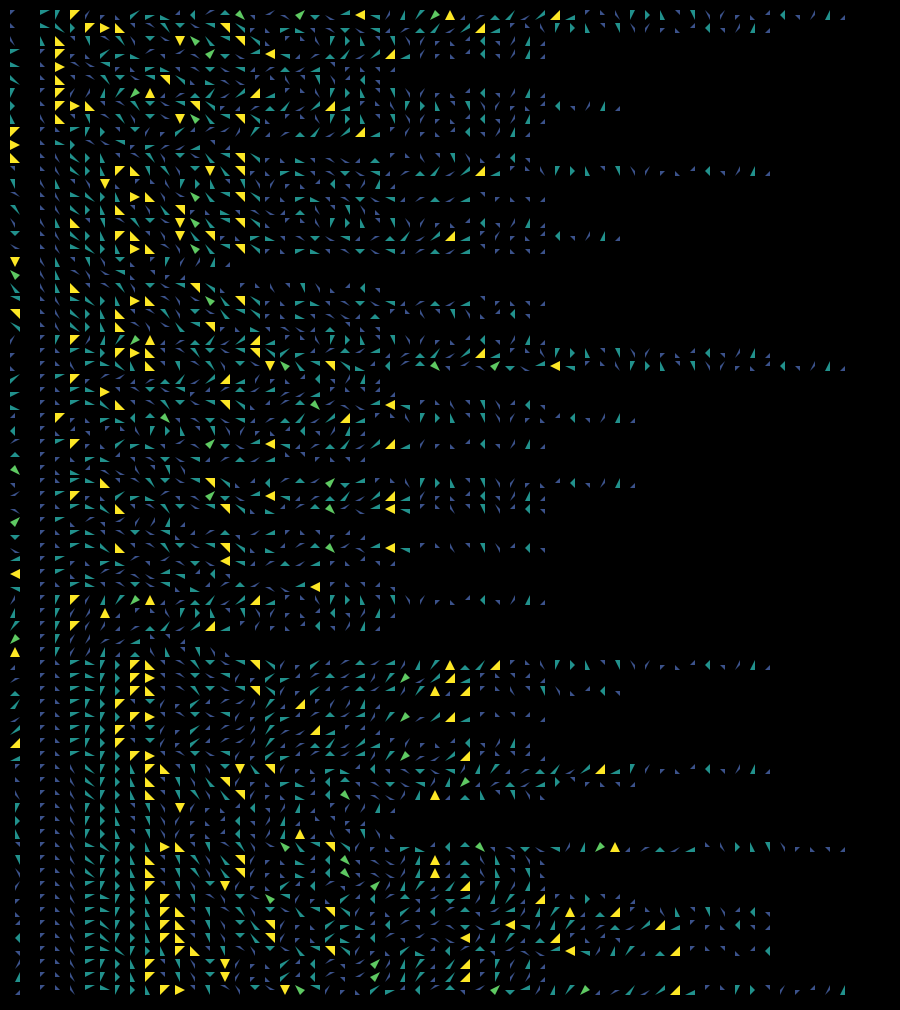
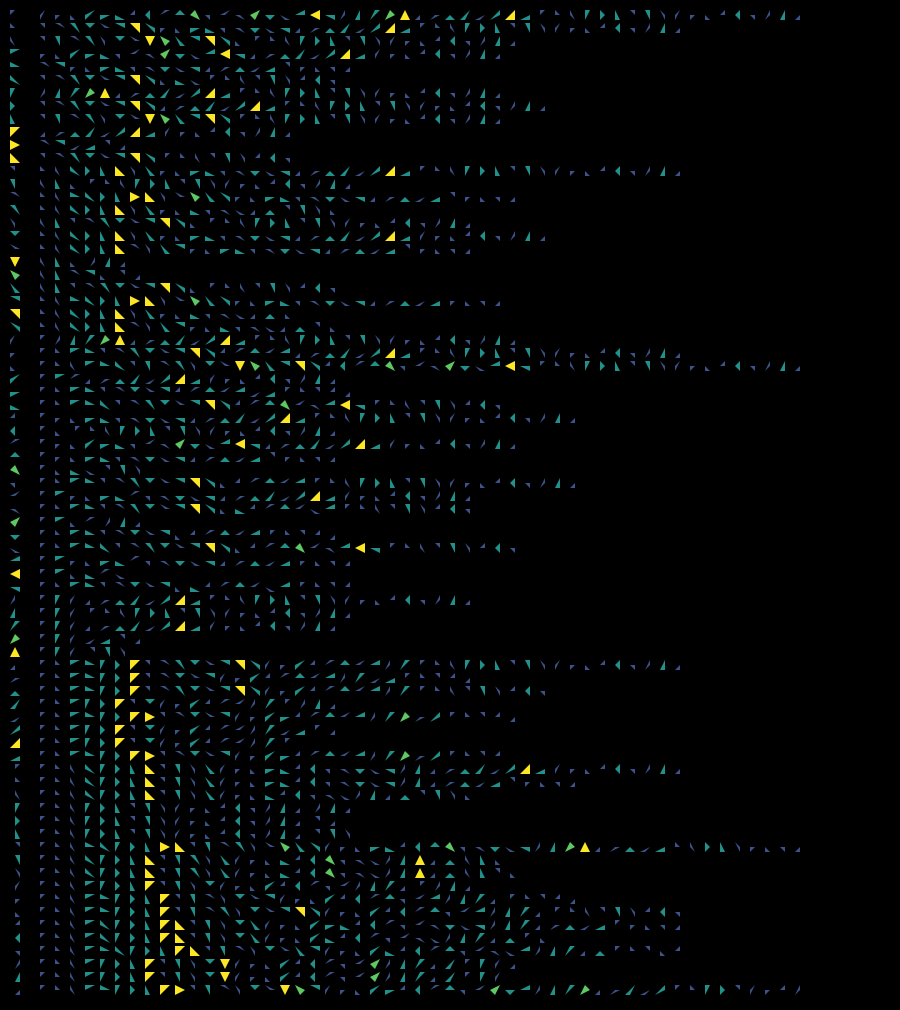
updating 2026_02_21 ...

diff --git a/2026/sketch_2026_02_21/sketch_2026_02_21.py b/2026/sketch_2026_02_21/sketch_2026_02_21.py
@@ -30,7 +30,9 @@ def start(ns=[3]):
     for tri in all_tris:
         good = []
         for other in all_tris:
-            if other != tri and not other.overlaps(tri):
+            # if other != tri and not other.overlaps(tri): # 02_21 doesn't work
+            # fixed 02_22
+            if other != tri and (tri.union(other)).area == tri.area + other.area:
                 good.append(other)
         nod[tri] = good    
     
